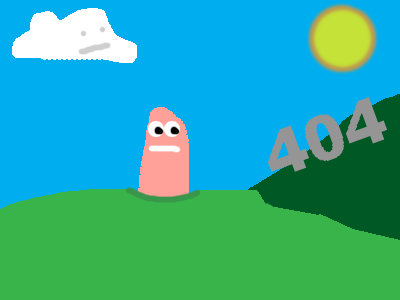
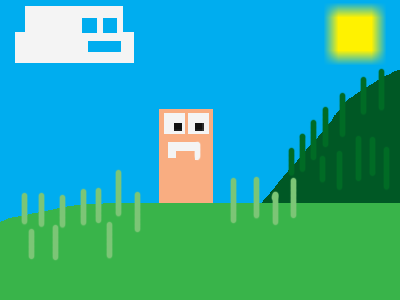
491.06-05-2022

Changed region(s): [[0.0, 0.0, 1.0, 0.87], [0.03, 0.0, 0.36, 0.21]]

diff --git a/games/bsa/index.html b/games/bsa/index.html
@@ -5,38 +5,31 @@ title: Bounce's Adventure
 excerpt: This game uses Unity Engine
 canon: games/bsa/
 ---
-<header>
-  <h2>
-    <a href="{{ site.url }}">Network Worms</a>
-    <img src="../../files/svg/1f642.svg"
-      width="32px"
-      height="32px">
-  </h2>
-</header>
+{% include header.html %}
 <div class="bread" itemscope itemtype="https://schema.org/BreadcrumbList">
-  <span itemprop="itemListElement">
-    <a itemscope
-       itemtype="https://schema.org/ListItem"
-       href="https://vitaliklevin.github.io/">
-      <span itemprop="name">Network Worms</span>
-      <meta itemprop="position" content="1" />
-    </a>
-  </span>
-  &#47;
-  <span itemprop="itemListElement">
-    <a itemscope
-       itemtype="https://schema.org/ListItem"
-       itemprop="item"
-       href="https://vitaliklevin.github.io/games/">
-      <span itemprop="name">Games</span>
-      <meta itemprop="position" content="2" />
-    </a>
-  </span>
-  &#47;
-  <strong>Bounce's Adventure</strong>
+	<span itemprop="itemListElement">
+		<a itemscope
+			 itemtype="https://schema.org/ListItem"
+			 href="https://vitaliklevin.github.io/">
+			<span itemprop="name">Network Worms</span>
+			<meta itemprop="position" content="1" />
+		</a>
+	</span>
+	&#47;
+	<span itemprop="itemListElement">
+		<a itemscope
+			 itemtype="https://schema.org/ListItem"
+			 itemprop="item"
+			 href="https://vitaliklevin.github.io/games/">
+			<span itemprop="name">Games</span>
+			<meta itemprop="position" content="2" />
+		</a>
+	</span>
+	&#47;
+	<strong>Bounce's Adventure</strong>
 </div>
 <main>
-  <h2 class="start">Bounce's Adventure</h2>
-  <img class="img400" src="../../files/images/bounce-s-adventure.png">
+	<h2 class="start">Bounce's Adventure</h2>
+	<img class="img400" src="../../files/images/bounce-s-adventure.png">
 </main>
 {% include footer.html %}

diff --git a/404.html b/404.html
@@ -8,7 +8,7 @@
 		<meta name="description" content="There is nothing interesting on this page">
 		<link rel="stylesheet" href="https://vitaliklevin.github.io/files/css/style.css">
 		<link rel="stylesheet" href="https://vitaliklevin.github.io/files/css/light.css">
-		<link rel="apple-touch-icon-precomposed" href="{{ "../files/icons/favicon192.png" | relative_url }}" type="image/png" sizes="192x192">
+		<link rel="apple-touch-icon-precomposed" href="https://vitaliklevin.github.io/files/icons/favicon192.png" type="image/png" sizes="192x192">
 		<link rel="apple-touch-icon" href="https://vitaliklevin.github.io/files/icons/favicon180.png" type="image/png" sizes="180x180">
 		<link rel="mask-icon" href="https://vitaliklevin.github.io/files/icons/favicon.svg" color="#da532c">
 		<link rel="icon" href="https://vitaliklevin.github.io/files/icons/favicon.svg" type="image/svg+xml">
@@ -44,12 +44,12 @@
 			<p>
 				A client-side error that users get when they want to find a page that does not exist.
 			</p>
-			<img srcset="https://vitaliklevin.github.io/files/images/404-400.png 400w,
-				https://vitaliklevin.github.io/files/images/404-800.png 800w"
-				sizes="(max-height: 500px) 250px,
-					(max-width: 1200px) 600px,
-					800px"
-				src="https://vitaliklevin.github.io/files/images/404-400.png" alt="">
+			<picture>
+				<source media="max-width: 700px" srcset="https://vitaliklevin.github.io/files/images/404-400.png"/>
+				<source media="max-width: 900px" srcset="https://vitaliklevin.github.io/files/images/404-600.png"/>
+				<source media="min-width: 901px" srcset="https://vitaliklevin.github.io/files/images/404-800.png"/>
+				<img src="https://vitaliklevin.github.io/files/images/404-400.png" alt=""/>
+			</picture>
 		</main>
 		<footer>
 			<p>

diff --git a/games/index.html b/games/index.html
@@ -5,19 +5,12 @@ title: Games
 excerpt: We are proud of our games.
 canon: games/
 ---
-<header>
-	<h2>
-		<a href="{{ site.url }}">Network Worms</a>
-		<img src="../files/svg/1f642.svg"
-			width="32px"
-			height="32px">
-	</h2>
-</header>
+{% include header.html %}
 <div class="bread" itemscope itemtype="https://schema.org/BreadcrumbList">
 	<span itemprop="itemListElement">
-		<a itemscope 
-			itemtype="https://schema.org/ListItem"
-			href="https://vitaliklevin.github.io/">
+		<a itemscope
+			 itemtype="https://schema.org/ListItem"
+			 href="https://vitaliklevin.github.io/">
 			<span itemprop="name">Network Worms</span>
 			<meta itemprop="position" content="1" />
 		</a>

diff --git a/files/css/dark.css b/files/css/dark.css
@@ -4,15 +4,11 @@ body {
 }
 
 header h2, header h2 a, header h2 a:visited, header h2 a:hover {
-	background-color: rgb(12, 12, 12);
+	background-color: rgb(18, 18, 18);
 	color: rgb(244, 244, 244);
 }
 
-h3 {
-	background-color: rgb(55, 55, 55);
-}
-
-nav, main, footer {
+nav, main, footer, h3 {
 	background-color: rgb(55, 55, 55);
 }
 
@@ -21,16 +17,12 @@ blockquote {
 	border-left: 3px solid rgb(0, 173, 239);
 }
 
-img {
-	filter: brightness(0.8) contrast(1.2);
-}
-
 .start, a {
 	color: rgb(93, 138, 168);
 }
 
 .blog {
-	background-color: rgb(12, 12, 12);
+	background-color: rgb(18, 18, 18);
 	color: rgb(244, 244, 244);
 }
 

diff --git a/files/css/light.css b/files/css/light.css
@@ -1,11 +1,11 @@
 body {
 	background-color: rgb(244, 244, 244);
-	color: rgb(12, 12, 12);
+	color: rgb(18, 18, 18);
 }
 
 header h2, header h2 a, header h2 a:visited {
 	background-color: rgb(246, 170, 126);
-	color: rgb(12, 12, 12);
+	color: rgb(18, 18, 18);
 }
 
 h3 {
@@ -23,7 +23,7 @@ blockquote {
 
 .blog {
 	background-color: rgb(244, 244, 244);
-	color: rgb(12, 12, 12);
+	color: rgb(18, 18, 18);
 }
 
 a:visited {

diff --git a/games/nves/index.html b/games/nves/index.html
@@ -5,14 +5,7 @@ title: Nature vs. Evil Spirits
 excerpt: Tower Defence
 canon: games/nves/
 ---
-<header>
-	<h2>
-		<a href="{{ site.url }}">Network Worms</a>
-		<img src="../../files/svg/1f642.svg"
-				 width="32px"
-				 height="32px">
-	</h2>
-</header>
+{% include header.html %}
 <div class="bread" itemscope itemtype="https://schema.org/BreadcrumbList">
 	<span itemprop="itemListElement">
 		<a itemscope

diff --git a/_layouts/post.html b/_layouts/post.html
@@ -3,7 +3,7 @@ layout: b-default
 ---
 <header>
 	<h2>
-		<a href="https://vitaliklevin.github.io/">Network Worms</a>
+		<a href="{{ site.url }}">Network Worms</a>
 		<img src="https://vitaliklevin.github.io/files/svg/1f642.svg"
 			width="32px"
 			height="32px">

diff --git a/index.html b/index.html
@@ -7,8 +7,7 @@ title: Main Page
 	<h2>
 		Network Worms
 		<img src="files/svg/1f642.svg"
-			width="32px"
-			height="32px">
+			width="32px" height="32px">
 	</h2>
 </header>
 <nav>

diff --git a/_includes/header.html b/_includes/header.html
@@ -1,0 +1,8 @@
+<header>
+	<h2>
+		<a href="{{ site.url }}">Network Worms</a>
+		<img src="../files/svg/1f642.svg"
+				 width="32px"
+				 height="32px">
+	</h2>
+</header>

diff --git a/README.md b/README.md
@@ -1,6 +1,6 @@
-## Readme
+# Readme
 
-[![GitHub license](https://img.shields.io/github/license/VitalikLevin/VitalikLevin.github.io)](https://github.com/VitalikLevin/VitalikLevin.github.io/blob/master/LICENSE.txt)
+[![CC-BY-SA 4.0](https://img.shields.io/badge/License-CC%20BY--SA%204.0-darklight.svg)](https://creativecommons.org/licenses/by-sa/4.0/)
 
 Readme was eaten by ```Ghost#000```.
 
